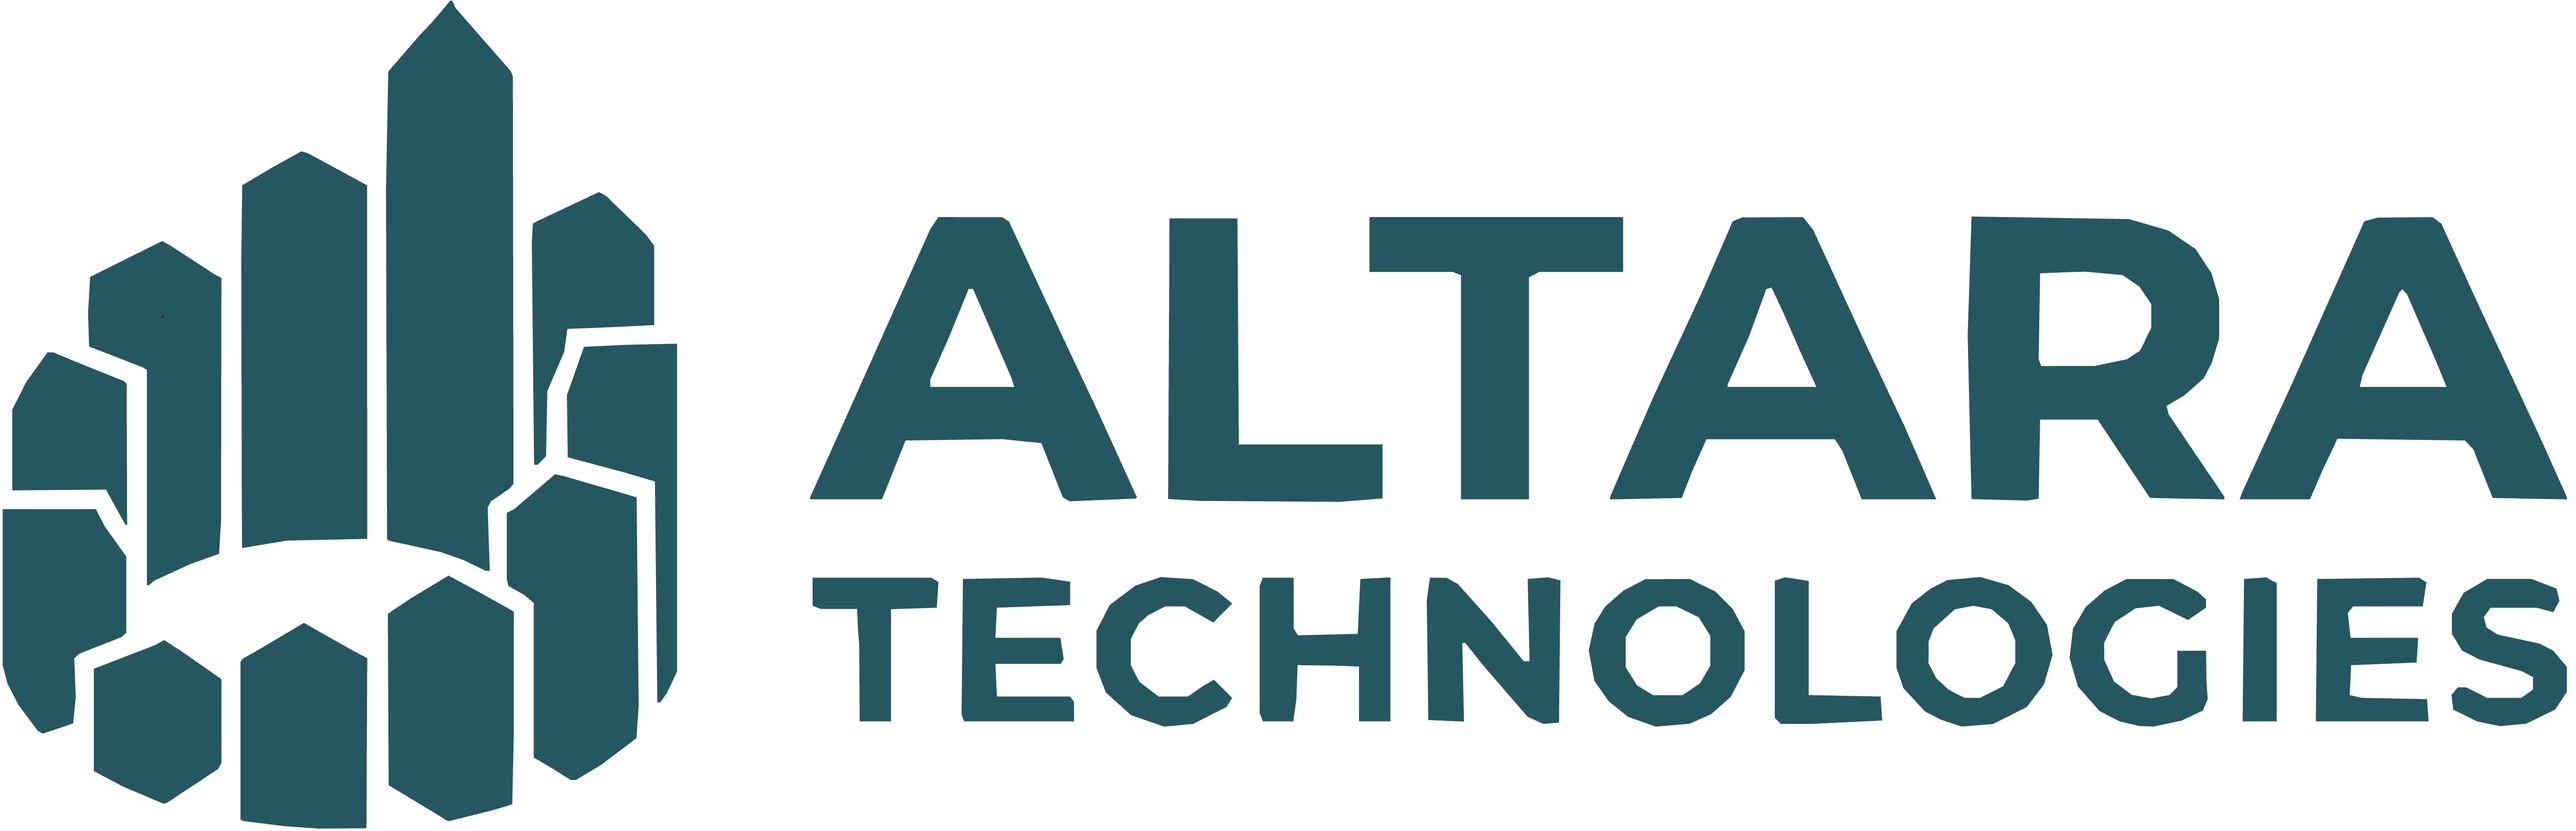
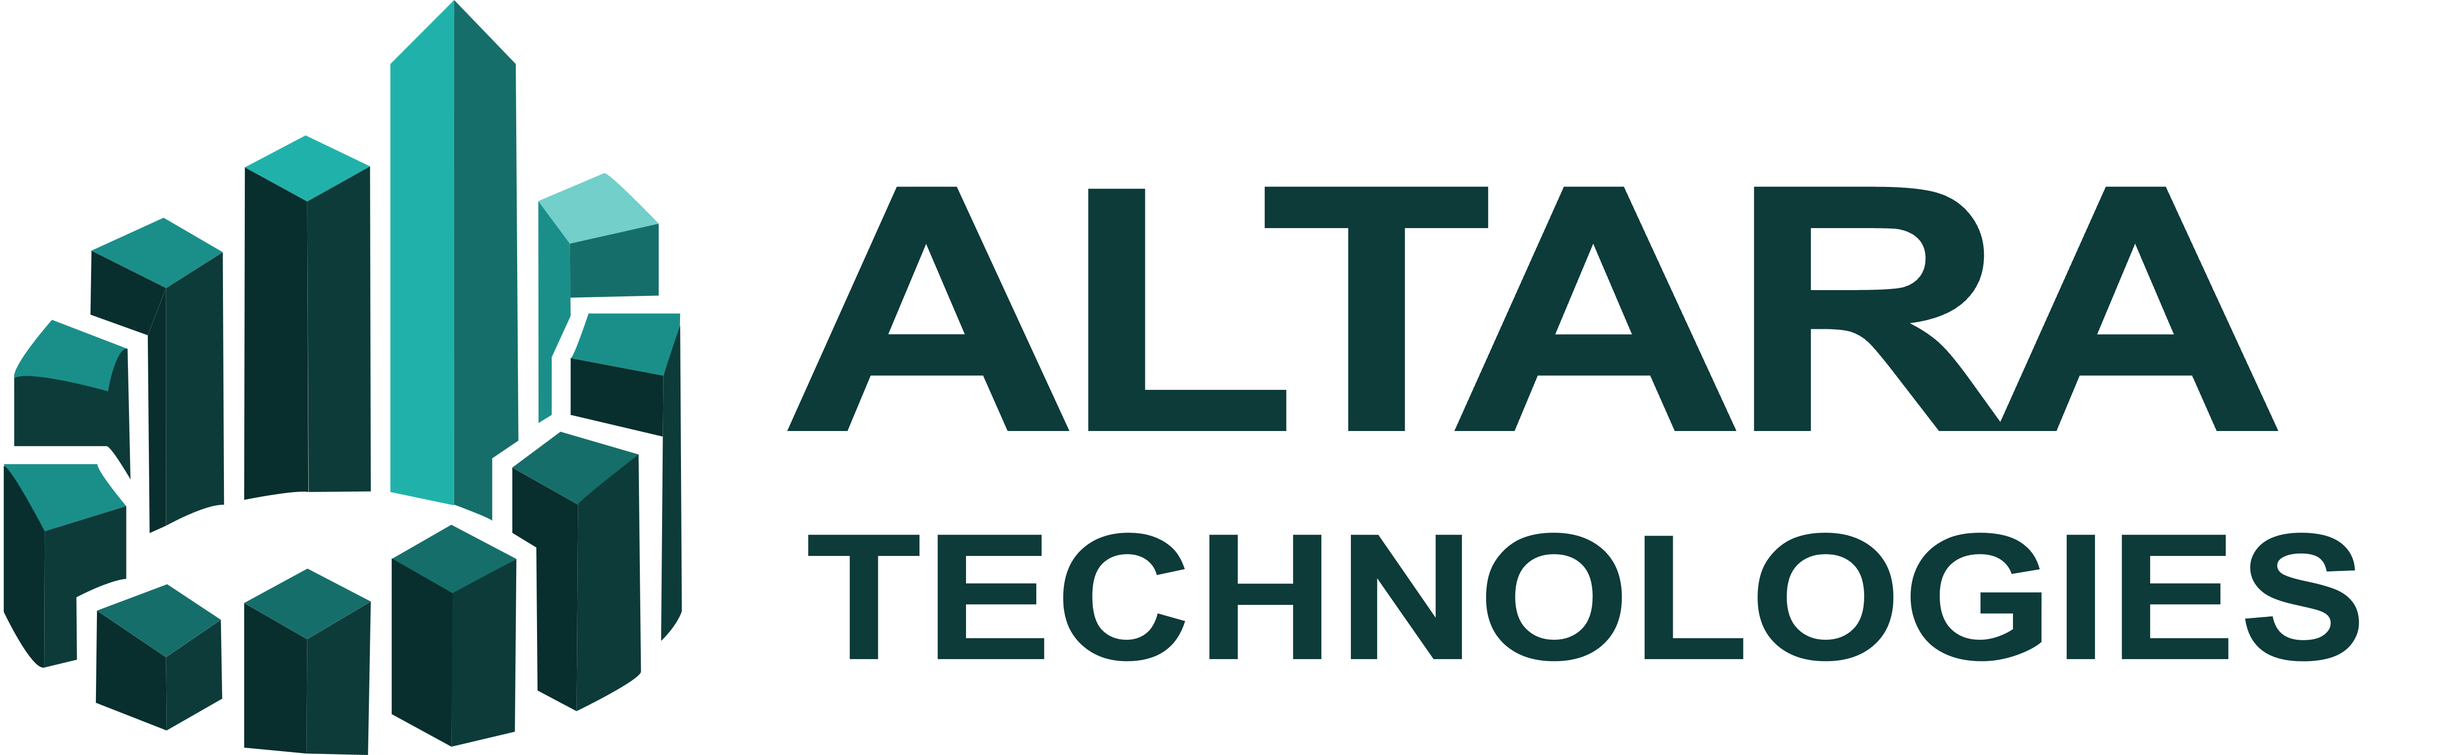
Nuevo módulo en el menú Control de acceso

diff --git a/src/global/components/menu/menuContent/menuContent.tsx b/src/global/components/menu/menuContent/menuContent.tsx
@@ -1,9 +1,11 @@
 "use client";
+
 import AddCardIcon from "@mui/icons-material/AddCard";
-import LocalGasStationIcon from "@mui/icons-material/LocalGasStation";
 import HomeIcon from "@mui/icons-material/Home";
-import QueryStats from "@mui/icons-material/QueryStats";
+import LocalGasStationIcon from "@mui/icons-material/LocalGasStation";
 import LogoutIcon from "@mui/icons-material/Logout";
+import PeopleAltIcon from "@mui/icons-material/PeopleAlt";
+import QueryStats from "@mui/icons-material/QueryStats";
 
 import styles from "./menuContent.module.css";
 import { ButtonTypes } from "../../generalButton/generalButton.model";
@@ -29,6 +31,11 @@ export const MenuContent = ({ isOpen, LANGUAGE, logoutState }: Props) => {
       icon: HomeIcon,
       route: "/home",
       title: LANGUAGE.sectionName.home,
+    },
+    {
+      icon: PeopleAltIcon,
+      route: "/iam",
+      title: LANGUAGE.sectionName.iam,
     },
     {
       icon: AddCardIcon,

diff --git a/src/global/components/menu/menuHeader/menuHeader.tsx b/src/global/components/menu/menuHeader/menuHeader.tsx
@@ -20,9 +20,9 @@ export const MenuHeader = ({ isOpen, setIsOpen, LANGUAGE }: Props) => {
           // IMAGEN PROPORCIÓN LOGO 6:1
           <Image
             alt={LANGUAGE.menu.titles.logo}
-            height={26}
-            src={"/svg/imagotipo_colorido_texto.svg"}
-            width={83}
+            height={30}
+            src={"/png/Imagotipo_color-5-textLarge.png"}
+            width={85}
           />
         ) : (
           // IMAGEN PROPORCIÓN LOGO 1:1

diff --git a/src/app/(pages)/(restrictedPages)/iam/page.tsx b/src/app/(pages)/(restrictedPages)/iam/page.tsx
@@ -1,0 +1,13 @@
+"use client";
+
+import { useLanguage } from "@/global/language/components/languageProvider/languageProvider";
+
+export default function Home() {
+  const LANGUAGE = useLanguage();
+
+  return (
+    <div>
+      <p>{LANGUAGE.sectionName.iam}</p>
+    </div>
+  );
+}

diff --git a/src/global/language/constants/portugues.ts b/src/global/language/constants/portugues.ts
@@ -14,6 +14,7 @@ export const PORTUGUES: LanguageInterface = {
     management: "Recursos",
     fuel: "Combustível",
     telemetryobd: "Telemetria",
+    iam: "Controle de acesso",
   },
   notifications: {
     unexpectedError: "Erro inesperado",

diff --git a/src/global/language/constants/spanish.ts b/src/global/language/constants/spanish.ts
@@ -15,6 +15,7 @@ export const SPANISH: LanguageInterface = {
     management: "Recursos",
     fuel: "Combustible",
     telemetryobd: "Telemetría",
+    iam: "Control de acceso",
   },
   notifications: {
     unexpectedError: "Error inesperado",

diff --git a/src/global/language/constants/english.ts b/src/global/language/constants/english.ts
@@ -15,6 +15,7 @@ export const ENGLISH: LanguageInterface = {
     management: "Resources",
     fuel: "Fuel",
     telemetryobd: "Telemetry",
+    iam: "Access control",
   },
   notifications: {
     unexpectedError: "Unexpected error",

diff --git a/src/global/language/constants/language.model.ts b/src/global/language/constants/language.model.ts
@@ -15,6 +15,7 @@ export interface LanguageInterface {
     management: string;
     fuel: string;
     telemetryobd: string;
+    iam: string;
   };
   notifications: {
     unexpectedError: string;
